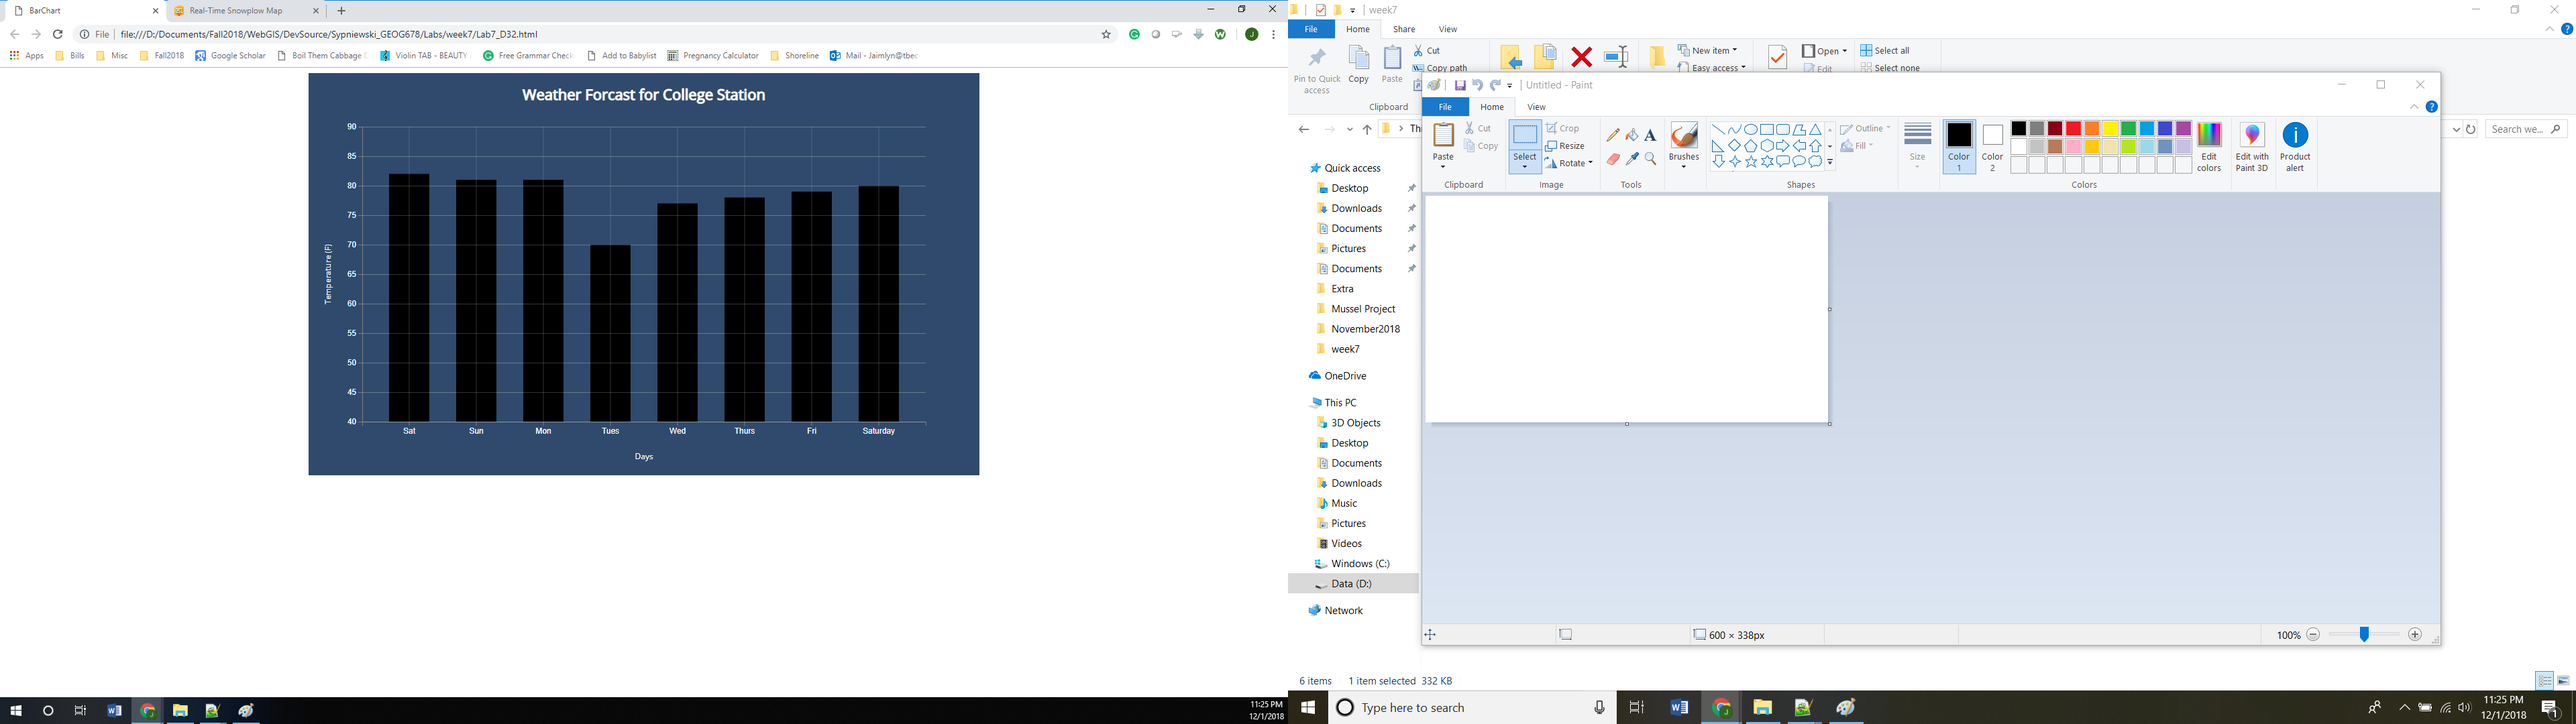
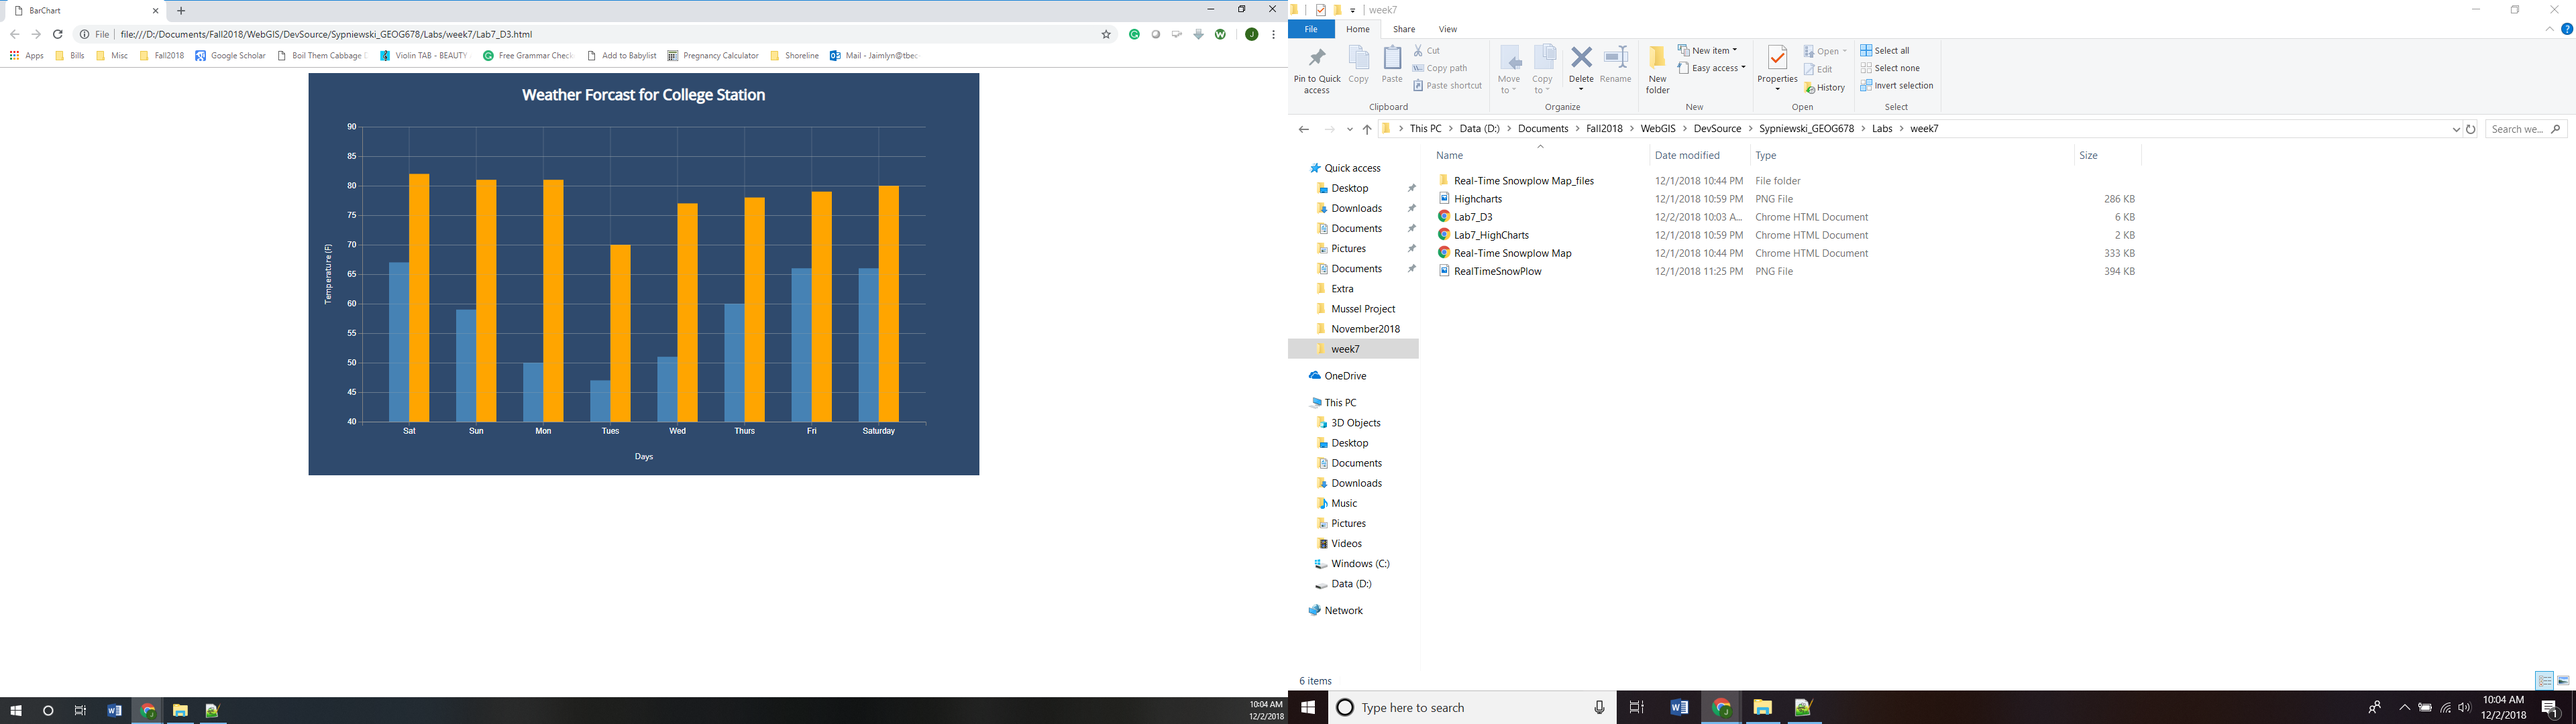
Lab 7 - Redone

diff --git a/Labs/week7/Lab7_D3.html b/Labs/week7/Lab7_D3.html
@@ -84,6 +84,14 @@ fill: white
 text.source {
   font-size: 10px;
 }
+
+.bar1 {
+  fill: steelblue;
+}
+
+.bar2 {
+  fill: orange;
+}
 	</style>
   </head>
 	 <body>
@@ -97,45 +105,53 @@ text.source {
 
 	</body>
 	<script>
- var sample = [
+var sample = [
       {
         day: 'Sat',
-        temperature: 82, 
+        low: 67,
+		high: 82,
         color: '#000000'
       },
       {
         day: 'Sun',
-        temperature: 81,
+        low: 59,
+		high: 81,
         color: '#00a2ee'
       },
       {
         day: 'Mon',
-        temperature: 81,
+        low: 50,
+		high: 81,
         color: '#fbcb39'
       },
       {
         day: 'Tues',
-        temperature: 70,
+        low: 47,
+		high: 70,
         color: '#007bc8'
       },
       {
         day: 'Wed',
-        temperature: 77,
+        low: 51,
+		high: 77,
         color: '#65cedb'
       },
       {
         day: 'Thurs',
-        temperature: 78,
+        low: 60,
+		high: 78,
         color: '#ff6e52'
       },
       {
         day: 'Fri',
-        temperature: 79,
+        low: 66,
+		high: 79,
         color: '#f9de3f'
       },
       {
         day: 'Saturday',
-        temperature: 80,
+        low: 66,
+		high: 80,
         color: '#507dca'
       }
     ];
@@ -189,16 +205,24 @@ text.source {
         .tickFormat('')
       )
 	  
+	  bars = chart.selectAll()
+		.data(sample)
+		.enter()
+	  
 	
-	chart.selectAll()
-    .data(sample)
-    .enter()
-    .append('rect')
-    .attr('x', (s) => xScale(s.day))
-    .attr('y', (s) => yScale(s.temperature))
-    .attr('height', (s) => height - yScale(s.temperature))
-    .attr('width', xScale.bandwidth())
-	
+  bars.append("rect")
+		.attr("class", "bar1")
+		.attr('x', (s) => xScale(s.day))
+		.attr('y', (s) => yScale(s.low))
+		.attr('height', (s) => height - yScale(s.low))
+		.attr('width', xScale.bandwidth()/2)
+
+  bars.append("rect")
+		.attr("class", "bar2")
+		.attr('x', (s) => xScale(s.day) + xScale.bandwidth()/2)
+		.attr('y', (s) => yScale(s.high))
+		.attr('height', (s) => height - yScale(s.high))
+		.attr('width', xScale.bandwidth()/2)
 	
 
 chart.append('g')
